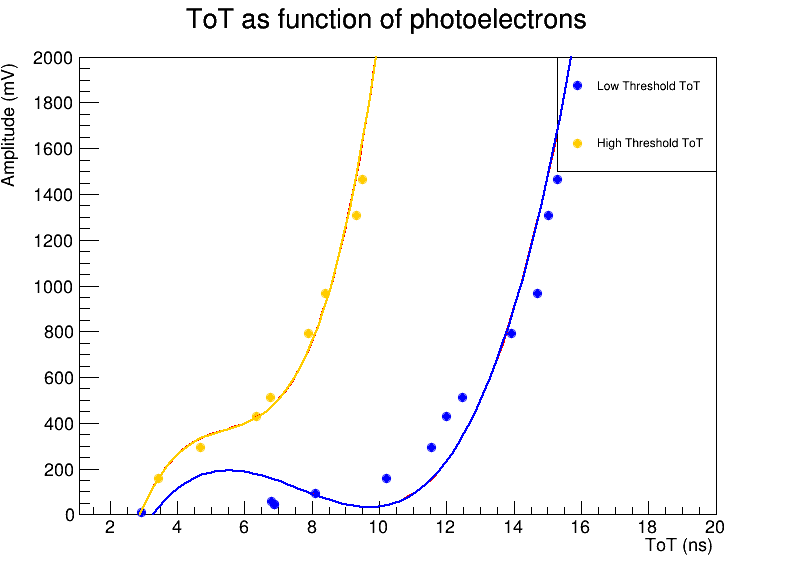
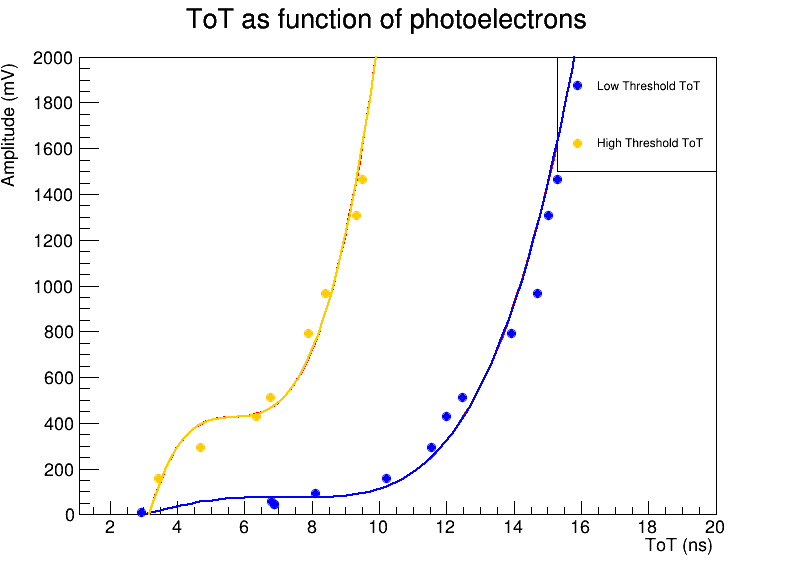
new commit

diff --git a/time_distribution_graph.C b/time_distribution_graph.C
@@ -297,8 +297,8 @@ int main() {
     legend->Draw();
 
     // Esegui il fitting dei dati
-    TF1 *fit_low = new TF1("fit_low", "[0]+[1]*x+[2]*x**2+[3]*x**3", 0, 20); // Fitting con un polinomio di secondo grado
-    TF1 *fit_high = new TF1("fit_high", "[0]+[1]*x+[2]*x**2+[3]*x**3", 0, 20);
+    TF1 *fit_low = new TF1("fit_low", "[0]+[1]*x+[2]*x**2+[3]*x**3+[4]*x**4", 0, 20); // Fitting con un polinomio di secondo grado
+    TF1 *fit_high = new TF1("fit_high", "[0]+[1]*x+[2]*x**2+[3]*x**3+[4]*x**4", 0, 20);
 
     gr_low->Fit(fit_low);
     gr_high->Fit(fit_high);
